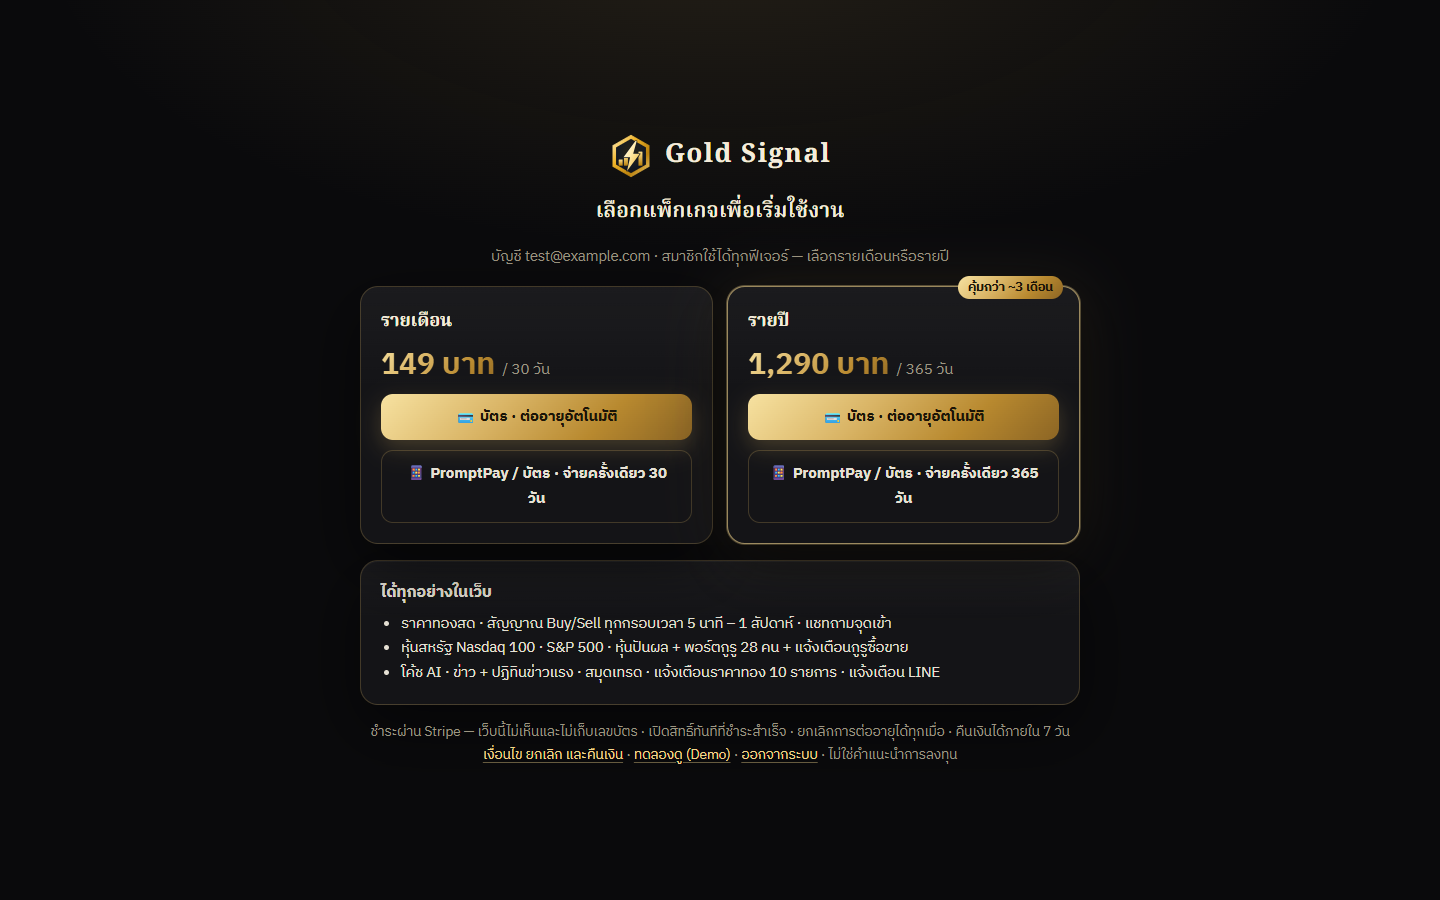
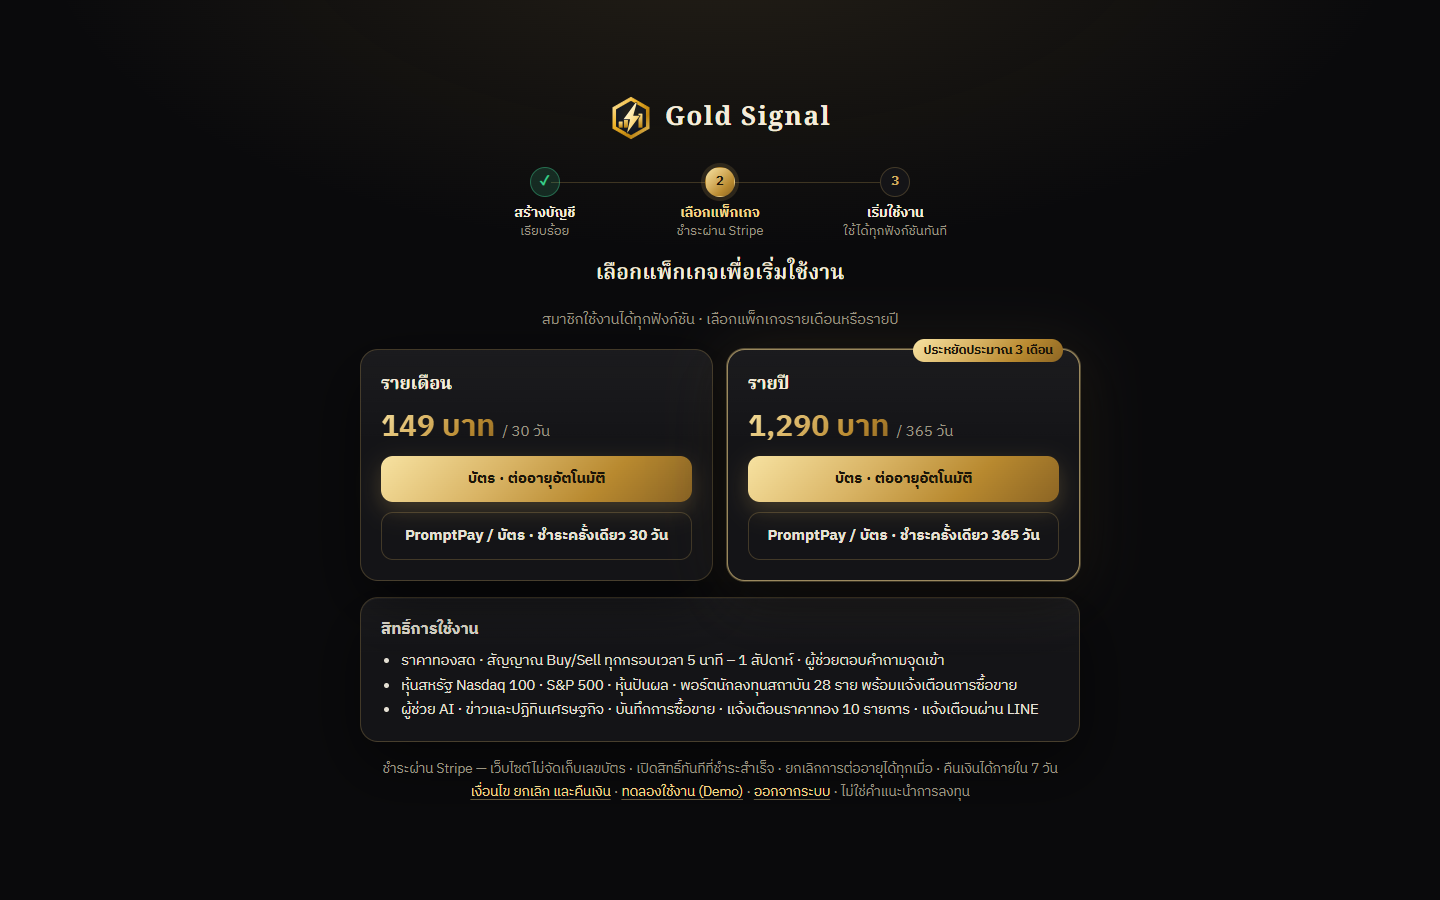
README: refreshed landing, pricing and sign-in screenshots; Skill.md entry

Changed region(s): [[0.25, 0.3422, 0.75, 0.9022], [0.3438, 0.0933, 0.75, 0.3422]]

diff --git a/Skill.md b/Skill.md
@@ -314,6 +314,14 @@ gh workflow run weekly-summary.yml -R tanakrthum254614-max/gold-signal -f send=t
 
 > จัดเรียงใหม่ 14 ต.ค. 2569: เนื้อหาเดิมครบทุกหัวข้อ แค่เรียงตามวันที่ (ใหม่ → เก่า) · งานใหม่ให้เพิ่มหัวข้อไว้บนสุดของส่วนนี้
 
+## 17 ต.ค. 2569 — ✍ ภาษาทางการ: หน้าแรก · หน้าชำระเงิน · กล่อง Clerk
+- ผู้ใช้: "อยากปรับอะไรไหม" → ผมเสนอ 4 ข้อ (1 ป้าย Development mode = รอโดเมน · 2 คำในกล่อง Clerk · 3 หน้าอื่นยังใช้ "ไม้" · 4 Buy → ซื้อ ไม่จำเป็น) → "ปรับมา" → ทำข้อ 2 + 3
+- login.html: THAI localization subtitle "ใช้อีเมลหรือบัญชี Google ที่ลงทะเบียนไว้" / "สร้างบัญชีด้วยอีเมลหรือ Google จากนั้นเลือกแพ็กเกจ 149 บาท/เดือน หรือ 1,290 บาท/ปี" · `formFieldInputPlaceholder__password` "กรอกรหัสผ่าน", `__signUpPassword` "ตั้งรหัสผ่าน", `__emailAddress` "กรอกอีเมล" · `body.mode-in .lead` ซ่อน (ซ้ำกับกล่อง) · มือถือแท็บสมัครก็ซ่อน lead เหมือนเดิม
+- welcome.html: title/og "Gold Signal · สัญญาณทองคำ" · h1 "สัญญาณ<span gold>ทองคำ</span>" · ทุกจุด "ไม้" → "รายการ", "เทรด" → "ซื้อขาย", โค้ช AI → ผู้ช่วย AI, พอร์ตกูรู → พอร์ตนักลงทุนสถาบัน, หัวข้อส่วน "เครื่องมือสำหรับการซื้อขายทองคำ" / "ผลการดำเนินงาน" / "เริ่มใช้งาน 3 ขั้นตอน" / "เริ่มต้นใช้งาน Gold Signal", FAQ เป็นคำถามทางการ, กล่องผลกรอบเสี่ยง "กรอบเวลาความเสี่ยงสูง" + "ผลรวมทุกรายการที่ระบบบันทึก" (ตัวเลขครบเหมือนเดิม)
+- pay.html: ปุ่มไม่มี emoji "บัตร · ต่ออายุอัตโนมัติ" / "PromptPay / บัตร · ชำระครั้งเดียว N วัน" · "สิทธิ์การใช้งาน" · ขั้นตอน "สร้างบัญชี" · ข้อความสถานะสุภาพ (โปรด… / ติดต่อ LINE)
+- ทดสอบ gold-signal-tools/pages3.cjs (welcome/pay/login × 1440 + 390) + fold + tabclick บนเว็บจริง (pay.html ล็อกอินก่อน → ทดสอบบนเครื่อง) · README landing.png / pricing.png / login.png ใหม่ (readme2.cjs) · commit 29e50ba
+- **โทนภาษาบนหน้าสาธารณะ = ทางการ กระชับ ไม่ใช้ "ไม้"/"เทรด"** — หน้าสมาชิก (index.html) ยังไม่ได้ปรับ
+
 ## 17 ต.ค. 2569 — ✍ หัวข้อหน้าเข้าสู่ระบบสั้นลง
 - ผู้ใช้: "ทำให้กระชับคำหน่อย" (ภาพหัวข้อใหญ่) → login.html h1 "สัญญาณซื้อขายทองคำ / ตรวจสอบได้ทุกรายการ" → **"สัญญาณทองคำ / โปร่งใส ตรวจสอบได้"** · ทดสอบ fold.cjs 5 ขนาดจอ + เว็บจริง
 - ต่อมา ผู้ใช้: "โปร่งใสออก" → "สัญญาณทองคำ / ตรวจสอบได้" → "ตรวจสอบได้ เอาออก" → **"สัญญาณทองคำ"** บรรทัดเดียว (ปัจจุบัน — อย่าเติมสโลแกนกลับ)

diff --git a/README.md b/README.md
@@ -20,7 +20,7 @@
 
 *A real-time gold (XAU/USD) trading signal platform for Thai traders: backtested entry, stop-loss and target levels, with every live trade published — profitable and losing alike.*
 
-<p align="center"><img src="docs/img/landing.png" alt="Landing page" width="100%"><br><sub>หน้าแรกของเว็บไซต์</sub></p>
+<p align="center"><img src="docs/img/landing.png" alt="Landing page" width="100%"><br><sub>หน้าแรกของเว็บไซต์ — ราคาทองคำแบบเรียลไทม์และผลการดำเนินงานที่อัปเดตอัตโนมัติ</sub></p>
 
 <table>
 <tr>
